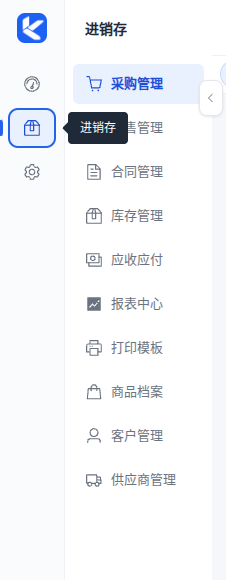
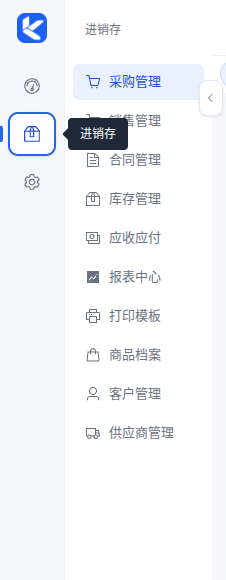
feat(ui): animate primary navigation scale and distinguish menu levels
Make the primary business rail visually stronger with 20px icons, 14px medium labels, 44px rows and a raised selected group on a muted surface. Animate icons to 18px and labels toward 12px while fading and hiding text on collapse. Keep icons centered and synchronize rail, icon and text transitions; respect reduced motion. Use 16px icons, 13px regular labels, 36px rows and a flat current-page highlight for secondary navigation. Preserve independent collapse controls and persisted preferences.

Validation: 27 unit tests, typecheck/production build, DESIGN lint, formatting and 19 browser scenarios passed. Frame samples verify real intermediate icon/font scaling, stable icon centers and no primary scaling on secondary toggles; keyboard, themes, contrast and preference restoration are covered. Mock APIs only. Existing TagsView static-audit false positive remains documented.

diff --git a/frontend/src/layout/components/Sidebar.vue b/frontend/src/layout/components/Sidebar.vue
@@ -123,9 +123,11 @@ function openGroup(item: RouteRecord): void {
               @click="openGroup(item)"
             >
               <AppIcon :name="item.meta?.icon" />
-              <span v-show="!appStore.primarySidebarCollapsed">{{
-                item.meta?.title
-              }}</span>
+              <span
+                class="sidebar__primary-label"
+                :aria-hidden="appStore.primarySidebarCollapsed"
+                >{{ item.meta?.title }}</span
+              >
             </button>
             <a
               v-else-if="item.meta?.isExternal"
@@ -136,9 +138,11 @@ function openGroup(item: RouteRecord): void {
               rel="noopener noreferrer"
             >
               <AppIcon :name="item.meta?.icon" />
-              <span v-show="!appStore.primarySidebarCollapsed">{{
-                item.meta?.title
-              }}</span>
+              <span
+                class="sidebar__primary-label"
+                :aria-hidden="appStore.primarySidebarCollapsed"
+                >{{ item.meta?.title }}</span
+              >
             </a>
             <router-link
               v-else
@@ -149,9 +153,11 @@ function openGroup(item: RouteRecord): void {
               :aria-current="contains(item, activePath) ? 'page' : undefined"
             >
               <AppIcon :name="item.meta?.icon" />
-              <span v-show="!appStore.primarySidebarCollapsed">{{
-                item.meta?.title
-              }}</span>
+              <span
+                class="sidebar__primary-label"
+                :aria-hidden="appStore.primarySidebarCollapsed"
+                >{{ item.meta?.title }}</span
+              >
             </router-link>
           </el-tooltip>
         </nav>
@@ -176,7 +182,11 @@ function openGroup(item: RouteRecord): void {
           <AppIcon
             :name="appStore.primarySidebarCollapsed ? 'Expand' : 'Fold'"
           />
-          <span v-show="!appStore.primarySidebarCollapsed">收起菜单</span>
+          <span
+            class="sidebar__primary-label"
+            :aria-hidden="appStore.primarySidebarCollapsed"
+            >收起菜单</span
+          >
         </button>
       </el-tooltip>
     </div>
@@ -224,6 +234,9 @@ function openGroup(item: RouteRecord): void {
   display: flex;
   flex-direction: column;
   min-height: 0;
+  overflow: hidden;
+  background: var(--app-fill);
+  transition: width var(--transition-base);
 }
 
 .sidebar__brand {
@@ -271,31 +284,33 @@ function openGroup(item: RouteRecord): void {
   align-items: center;
   gap: 8px;
   width: 100%;
-  min-height: 40px;
-  padding: 10px 15px;
+  min-height: 44px;
+  padding: 12px 14px;
   border: 0;
   border-radius: var(--radius-md);
   background: transparent;
-  color: var(--app-text-secondary);
+  color: var(--app-text);
   text-align: left;
   text-decoration: none;
   font: inherit;
-  font-size: 13px;
+  font-size: 14px;
+  font-weight: 500;
   line-height: 20px;
   cursor: pointer;
   transition:
     background-color var(--transition-base),
-    color var(--transition-base);
-
-  span {
-    flex: none;
-    white-space: nowrap;
-  }
+    color var(--transition-base),
+    font-size var(--transition-base),
+    gap var(--transition-base);
   :deep(.el-icon) {
-    flex: 0 0 18px;
-    width: 18px;
-    height: 18px;
-    font-size: 18px;
+    flex: 0 0 20px;
+    width: 20px;
+    height: 20px;
+    font-size: 20px;
+    color: var(--app-text-secondary);
+    transition:
+      transform var(--transition-base),
+      color var(--transition-base);
   }
   &:hover {
     background: var(--app-fill-hover);
@@ -309,16 +324,21 @@ function openGroup(item: RouteRecord): void {
     outline-offset: -2px;
   }
   &.is-active {
-    background: var(--app-primary-soft);
+    background: var(--app-surface);
     color: var(--tone-blue);
     font-weight: 600;
+    box-shadow: var(--shadow-card);
+
+    :deep(.el-icon) {
+      color: var(--tone-blue);
+    }
 
     &::before {
       content: '';
       position: absolute;
       left: -8px;
-      top: 12px;
-      bottom: 12px;
+      top: 14px;
+      bottom: 14px;
       width: 3px;
       border-radius: 0 3px 3px 0;
       background: var(--brand-primary);
@@ -326,10 +346,43 @@ function openGroup(item: RouteRecord): void {
   }
 }
 
+.sidebar__primary-label {
+  flex: 0 1 auto;
+  min-width: 0;
+  max-width: 68px;
+  overflow: hidden;
+  white-space: nowrap;
+  opacity: 1;
+  transition:
+    max-width var(--transition-base),
+    opacity var(--transition-base);
+}
+
+.is-primary-collapsed {
+  .sidebar__primary-item {
+    font-size: 12px;
+    gap: 0;
+  }
+  .sidebar__primary-label {
+    max-width: 0;
+    opacity: 0;
+  }
+  .sidebar__primary-item :deep(.el-icon) {
+    transform: scale(0.9);
+  }
+}
+
 .sidebar__primary-toggle {
   flex: none;
   width: calc(100% - 16px);
   margin: 8px;
+  min-height: 36px;
+  font-size: 12px;
+  font-weight: 400;
+  color: var(--app-text-secondary);
+  :deep(.el-icon) {
+    font-size: 16px;
+  }
 }
 
 .sidebar__toggle {
@@ -383,9 +436,9 @@ function openGroup(item: RouteRecord): void {
   height: var(--sidebar-header-height);
   flex: none;
   padding: 0 20px;
-  font-size: 14px;
-  font-weight: 600;
-  color: var(--app-text);
+  font-size: 12px;
+  font-weight: 500;
+  color: var(--app-text-secondary);
 }
 
 .sidebar__menu {
@@ -402,21 +455,21 @@ function openGroup(item: RouteRecord): void {
   :deep(.el-sub-menu__title) {
     position: relative;
     height: auto;
-    min-height: 40px;
+    min-height: 36px;
     line-height: 20px;
-    padding-top: 10px;
-    padding-bottom: 10px;
-    margin-bottom: 4px;
+    padding-top: 8px;
+    padding-bottom: 8px;
+    margin-bottom: 3px;
     border-radius: var(--radius-sm);
     white-space: normal;
     font-size: 13px;
 
     .el-icon {
-      flex: 0 0 18px;
-      width: 18px;
-      height: 18px;
+      flex: 0 0 16px;
+      width: 16px;
+      height: 16px;
       margin-right: 8px;
-      font-size: 18px;
+      font-size: 16px;
     }
     .el-sub-menu__icon-arrow {
       width: 12px;
@@ -436,7 +489,7 @@ function openGroup(item: RouteRecord): void {
   :deep(.el-menu-item.is-active) {
     color: var(--tone-blue);
     background: var(--app-primary-soft);
-    font-weight: 600;
+    font-weight: 500;
   }
   :deep(.el-sub-menu.is-active > .el-sub-menu__title) {
     color: var(--app-text);
@@ -445,7 +498,10 @@ function openGroup(item: RouteRecord): void {
 }
 
 @media (prefers-reduced-motion: reduce) {
-  .sidebar__primary-item {
+  .sidebar__rail,
+  .sidebar__primary-item,
+  .sidebar__primary-label,
+  .sidebar__primary-item :deep(.el-icon) {
     transition: none;
   }
 }

diff --git a/DESIGN.md b/DESIGN.md
@@ -52,7 +52,7 @@ components:
 
 ## Layout
 
-侧栏采用分层导航：一级栏展开固定宽 132px、收起固定宽 64px，二级栏固定宽 148px。一级菜单使用左图标、右文字，图标固定 18×18px，文字固定 13px/20px，行高至少 40px；切换二级栏不会改变一级栏宽度。一级图标、30px 产品标识及文字在所有状态下保持尺寸与横向锚点，只改变文字显隐和容器宽度，不使用 scale、字号或图标尺寸过渡。品牌区与顶栏同高 56px，图标与 Kasinlo 名称横排。一级收起时隐藏名称，悬停或键盘聚焦提供名称提示，并保留可访问名称。两栏独立控制、独立记住偏好；总宽由当前一级宽度与二级可见性相加计算，分别为 280/212/132/64px。两栏独立滚动。一级栏使用 subtle 表面、二级栏使用 surface 表面，选中项使用浅蓝底、蓝字；普通文字保持次级对比度，不给每个条目添加边框或阴影。二级导航保持左图标右文字，图标同为 18px。菜单与权限沿用现有来源。
+侧栏采用分层导航：一级栏展开宽 132px、收起宽 64px，二级栏固定宽 148px。一级菜单使用左图标、右文字，展开时图标 20px、文字 14px/500（选中 600）、行高至少 44px；收起时图标平滑缩到 18px，文字从 14px 缩到 12px，同时淡出并收窄至隐藏。图标在固定 20px 槽内以中心为锚点缩放，一级栏宽度、文字和图标共用 200ms 动效节奏。二级切换不缩放一级菜单。二级项目使用 16px 图标、13px 常规文字（选中 500）和 36px 行高，分组标题为 12px/500 次级文案，形成明确的业务分组/功能入口层次。一级栏使用 fill 表面，选中业务分组为 surface 底、细阴影与左侧标记；二级栏使用 surface 表面，当前页面采用浅蓝底平面高亮。品牌区与顶栏同高 56px，30px 产品标识与 Kasinlo 名称横排，标识不参与菜单缩放。一级收起时悬停或键盘聚焦提供名称提示，并保留可访问名称。两栏独立控制、独立记住偏好；总宽为 280/212/132/64px，两栏独立滚动。菜单与权限沿用现有来源。
 
 现有外壳由 `.layout__content` 负责滚动。采购页不另设 100vh 或裁剪祖先。内容卡片统一 padding 16px；采购标题、视图与新增按钮桌面同排，不展示说明段落；组间 20–24px，组内 8–12px。待办卡片按内容自然高度排列，单条数据也不拉伸填满容器。日期、数量及金额在表格中不换行，列宽不足时使用表格横向滚动。待办宽 296px，中等窗口 248px，核对区填充剩余空间；800px 以下切换为队列/详情单列，保留返回路径。明细表横向滚动，录入表单保持自然高度并沿用 xl 弹窗。
 
@@ -68,7 +68,7 @@ components:
 
 按钮用 ElButton，页面级新增与当前单据审核分别属于独立决策区。打印、附件等辅助动作低强调；反审核在更多菜单中，确认时说明库存回滚及限制。队列使用原生 button，具有 hover、focus-visible、pressed、selected、disabled 状态。
 
-列表/日期/下拉/表单使用现有 Element Plus 组件与中文 locale。异步使用现有 loading 指令；错误、无结果与业务空队列分别表达。弹窗沿用全局最大高度和内部滚动，采购编辑关闭前保护未保存输入。导航图标沿用 AppIcon 注册表。产品标识使用 `frontend/public/brand/kasinlo-mark.png`，由内置 imagegen 生成，侧栏与浏览器图标共用同一资源；固定宽高防止图片加载时跳动。生成提示：蓝底白色几何 K，由三个相连模块构成，适合 24–32px，简洁平面，无文字或场景。侧栏颜色继续直接消费 `variables.scss` 语义令牌，不增加独立配色；尊重 reduced-motion，禁用侧栏宽度及一级菜单颜色过渡。
+列表/日期/下拉/表单使用现有 Element Plus 组件与中文 locale。异步使用现有 loading 指令；错误、无结果与业务空队列分别表达。弹窗沿用全局最大高度和内部滚动，采购编辑关闭前保护未保存输入。导航图标沿用 AppIcon 注册表。产品标识使用 `frontend/public/brand/kasinlo-mark.png`，由内置 imagegen 生成，侧栏与浏览器图标共用同一资源；固定宽高防止图片加载时跳动。生成提示：蓝底白色几何 K，由三个相连模块构成，适合 24–32px，简洁平面，无文字或场景。侧栏颜色继续直接消费 `variables.scss` 语义令牌，不增加独立配色；尊重 reduced-motion，禁用侧栏宽度、文字和图标的所有过渡。
 
 新增工作台不使用装饰动画，状态变化直接反馈。金额、数量、日期格式沿用 `utils/format.ts`；付款到期日明确标注用途。
 

diff --git a/UX-CONTRACT.md b/UX-CONTRACT.md
@@ -46,8 +46,8 @@
 
 主导航直接使用服务端已授权菜单树，沿用路由、权限过滤及外链行为。一级栏与二级栏分别由 app store 中的 `primarySidebarCollapsed` 与 `sidebarCollapsed` 控制，分别持久化到 `nova_sidebar_primary_collapsed` 与原有 `nova_sidebar_collapsed` 键。
 
-一级栏展开时左图标右文字，宽 132px；收起时仅图标，宽 64px，图标及产品标识保持尺寸与横向位置。一级栏底部按钮与顶栏折叠按钮均只切换一级栏文字。图标模式的每一项保留 aria-label，并在悬停及键盘聚焦时提供 ElTooltip 名称提示。聚焦及当前状态可辨认。
+一级栏展开时左图标右文字，宽 132px，图标 20px、文字 14px；收起时为 64px 图标栏，图标以固定中心缩到 18px，文字缩到 12px 并同步淡出、隐藏。产品标识固定 30px。一级栏底部按钮与顶栏折叠按钮均只切换一级栏文字。图标模式的每一项保留 aria-label，并在悬停及键盘聚焦时提供 ElTooltip 名称提示。聚焦及当前状态可辨认。
 
 右边缘箭头继续只切换二级栏，二级栏固定宽 148px；切换二级栏不改变一级栏尺寸。两栏都展开为 280px，一级仅图标且二级展开为 212px，仅一级文字栏为 132px，两栏都收起为 64px。没有二级菜单时只占当前一级栏宽度。内容区与侧栏从同一组尺寸令牌计算，不独立写死宽度。
 
-点击一级分组自动打开二级栏，保留一级图标模式；选择分组用于浏览菜单，不自动跳到第一个子页。路由变化恢复对应分组高亮。二级栏隐藏时保留内部各分组的展开状态；两级折叠切换不改变字号、图标尺寸或 scale，减少动态效果模式取消宽度过渡。
+点击一级分组自动打开二级栏，保留一级图标模式；选择分组用于浏览菜单，不自动跳到第一个子页。路由变化恢复对应分组高亮。二级栏隐藏时保留内部各分组的展开状态；一级折叠以 200ms 同步改变栏宽、图标 scale、文字字号及显隐；二级图标固定 16px、文字 13px，二级折叠不缩放一级菜单。减少动态效果模式取消宽度、字号、图标和淡出过渡，直接切换到最终状态。

diff --git a/docs/SIDEBAR_VISUAL.md b/docs/SIDEBAR_VISUAL.md
@@ -1,6 +1,6 @@
 # 侧栏视觉与产品图标
 
-一级导航改为左图标、右文字，文字固定 13px、图标固定 18px。一级栏固定 132px，收起后变为 64px 图标栏；二级栏固定 148px，不再随一级栏伸缩。底部按钮或顶栏按钮控制一级文字，边缘箭头控制二级菜单；两种偏好分别保存。收起后悬停或键盘聚焦显示菜单名称，点击业务图标仍可打开二级菜单。
+一级导航采用左图标、右文字：展开为 20px 图标、14px 文字、44px 行高；收起时图标平滑缩到 18px，文字同步缩到 12px 并淡出。二级导航采用更轻的 16px 图标、13px 文字和 36px 行高；一级选中为有轻微阴影的业务分组，二级当前页面为平面浅蓝底。一级栏固定 132px，收起后变为 64px 图标栏；二级栏固定 148px，不再随一级栏伸缩。底部按钮或顶栏按钮控制一级文字，边缘箭头控制二级菜单；两种偏好分别保存。收起后悬停或键盘聚焦显示菜单名称，点击业务图标仍可打开二级菜单。
 
 | 一级栏 | 二级栏 | 总宽 |
 | --- | --- | --- |
@@ -14,7 +14,7 @@
 ![一级图标栏与二级菜单](images/sidebar-primary-icons.png)
 ![全部收起](images/sidebar-icons-only.png)
 
-侧栏与浏览器图标共用 `frontend/public/brand/kasinlo-mark.png`，发布资源为 128×128 PNG，约 12KB，侧栏显示 30×30。导航图标继续使用 AppIcon。颜色只消费现有语义令牌；选中文字使用 `--tone-blue`，亮暗主题均检查至少 4.5:1 的对比度。键盘焦点可见，减少动态效果时取消侧栏过渡。浏览器逐帧采样验证两级菜单切换时字号、图标尺寸和横向锚点保持不变。
+侧栏与浏览器图标共用 `frontend/public/brand/kasinlo-mark.png`，发布资源为 128×128 PNG，约 12KB，侧栏显示 30×30。导航图标继续使用 AppIcon。颜色只消费现有语义令牌；选中文字使用 `--tone-blue`，亮暗主题均检查至少 4.5:1 的对比度。键盘焦点可见，减少动态效果时取消侧栏过渡。浏览器逐帧采样验证一级文字和图标具有真实的中间缩放帧、图标中心稳定，二级切换不改变一级图标大小。
 
 ## 图标生成
 
